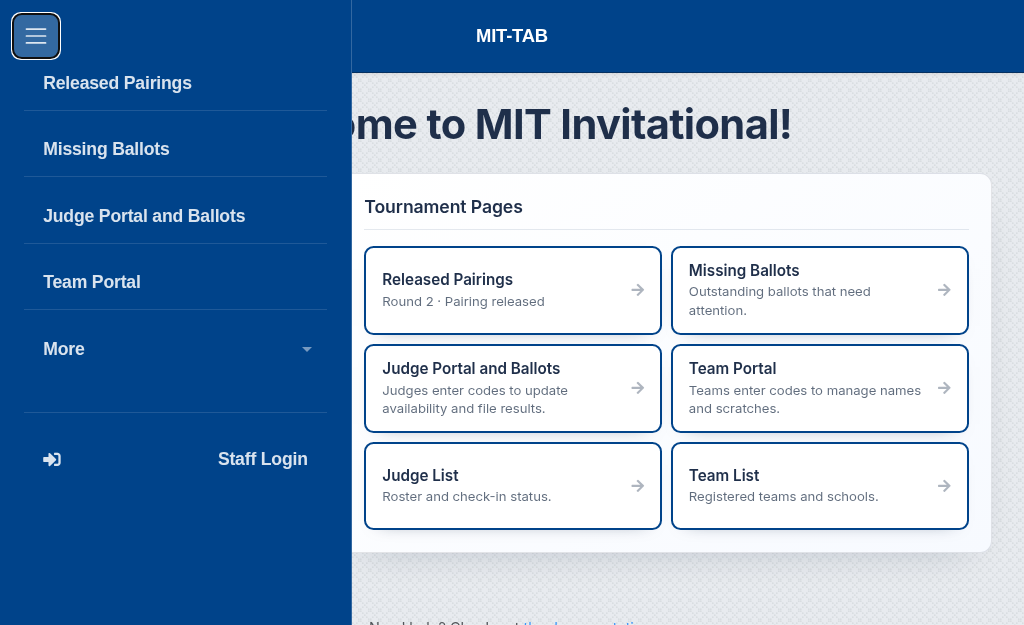
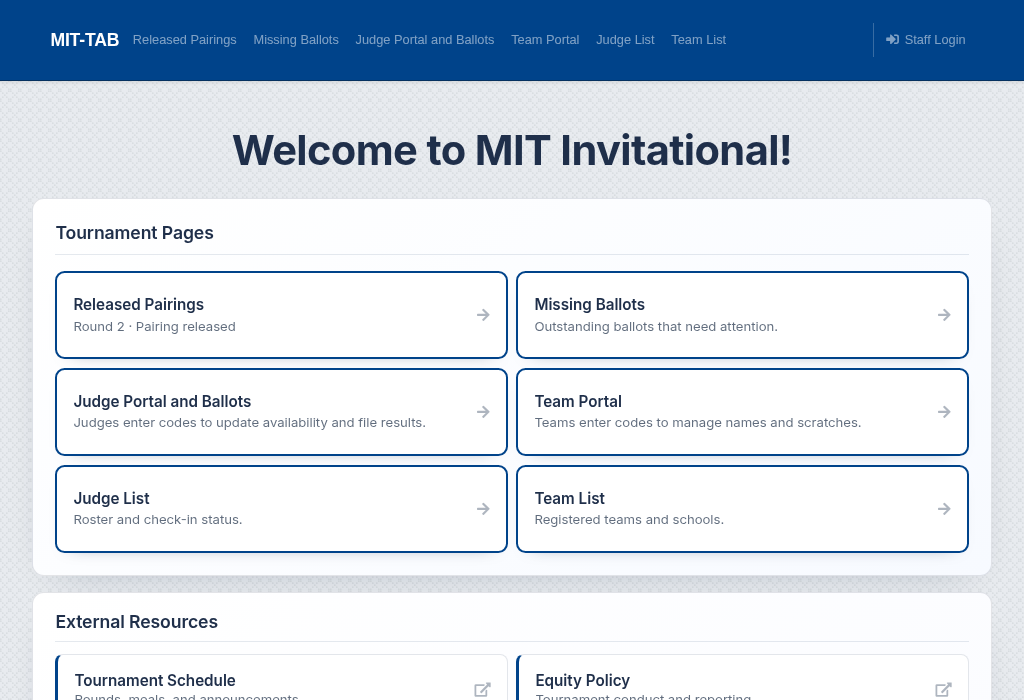
Refine responsive public navigation layout

diff --git a/mittab/templates/base/_navigation.html b/mittab/templates/base/_navigation.html
@@ -68,7 +68,7 @@
 {% staff_can user "checkins" as can_checkins %}
 {% staff_can user "data_entry" as can_data_entry %}
 
-<nav class="navbar navbar-expand-xl navbar-dark bg-dark shadow-sm mittab-nav">
+<nav class="navbar navbar-expand-lg navbar-dark bg-dark shadow-sm mittab-nav">
   <div class="container w-95">
     <a class="navbar-brand text-extra-bold{% if not user.is_authenticated %} no-nav{% endif %}" href="{% if user.is_authenticated %}{% if is_apda_board_user %}{{ apda_board_home|with_return_to }}{% else %}{{ home|with_return_to }}{% endif %}{% else %}{{ public_home|with_return_to }}{% endif %}">MIT-TAB</a>
 
@@ -270,16 +270,20 @@
           <a class="nav-link {% active request public_team_portal %}" href="{{ public_team_portal|with_return_to }}">Team Portal</a>
         </li>
         {% endif %}
-        {% if public_page_flags.judge_list or public_page_flags.team_list or public_page_flags.public_team_results or public_page_flags.public_speaker_results or public_page_flags.public_ballots or public_page_flags.public_motions or public_page_flags.varsity_outrounds or public_page_flags.novice_outrounds %}
+        {% if public_page_flags.judge_list %}
+        <li class="nav-item">
+          <a class="nav-link {% active request public_judges %}" href="{{ public_judges|with_return_to }}">Judge List</a>
+        </li>
+        {% endif %}
+        {% if public_page_flags.team_list %}
+        <li class="nav-item">
+          <a class="nav-link {% active request public_teams %}" href="{{ public_teams|with_return_to }}">Team List</a>
+        </li>
+        {% endif %}
+        {% if public_page_flags.public_team_results or public_page_flags.public_speaker_results or public_page_flags.public_ballots or public_page_flags.public_motions or public_page_flags.varsity_outrounds or public_page_flags.novice_outrounds %}
         <li class="nav-item dropdown">
           <a data-toggle="dropdown" class="nav-link dropdown-toggle">More</a>
           <div class="dropdown-menu">
-            {% if public_page_flags.judge_list %}
-            <a class="dropdown-item {% active request public_judges %}" href="{{ public_judges|with_return_to }}">Judge List</a>
-            {% endif %}
-            {% if public_page_flags.team_list %}
-            <a class="dropdown-item {% active request public_teams %}" href="{{ public_teams|with_return_to }}">Team List</a>
-            {% endif %}
             {% if public_page_flags.public_team_results %}
             <a class="dropdown-item {% active request public_team_rankings %}" href="{{ public_team_rankings|with_return_to }}">Public Team Results</a>
             {% endif %}

diff --git a/assets/css/navigation.scss b/assets/css/navigation.scss
@@ -19,7 +19,7 @@
 }
 
 // Desktop navigation
-@media (min-width: 1200px) {
+@media (min-width: 992px) {
   .mittab-nav {
     margin-bottom: 1.1rem;
     box-shadow: 0 4px 10px -8px rgba(12, 34, 68, 0.65);
@@ -44,10 +44,12 @@
       align-items: center;
       justify-content: space-between;
       gap: 1.2rem;
+      min-width: 0;
     }
 
     .navbar-nav {
       flex-direction: row;
+      flex-wrap: nowrap;
       align-items: center;
       gap: 0.5rem;
       padding: 0;
@@ -151,8 +153,41 @@
   }
 }
 
+// Keep the full desktop navigation at laptop widths without allowing labels
+// to wrap. Lower-priority result pages remain grouped under More.
+@media (min-width: 992px) and (max-width: 1199.98px) {
+  .mittab-nav {
+    .container {
+      gap: 0.35rem;
+      padding: 0 0.6rem;
+    }
+
+    .navbar-brand {
+      font-size: 1.1rem;
+    }
+
+    .navbar-collapse {
+      gap: 0.35rem;
+    }
+
+    .navbar-nav {
+      gap: 0.05rem;
+
+      + .navbar-nav {
+        margin-left: 0.35rem;
+        padding-left: 0.35rem;
+      }
+    }
+
+    .nav-link {
+      padding: 0.45rem 0.42rem;
+      font-size: 0.8rem;
+    }
+  }
+}
+
 // Mobile navigation
-@media (max-width: 1199.98px) {
+@media (max-width: 991.98px) {
   .mittab-nav {
     .container {
       display: flex;

diff --git a/assets/css/public-home.scss b/assets/css/public-home.scss
@@ -97,9 +97,8 @@ body {
     gap: 1.5rem;
 
     @media (min-width: 992px) {
-      grid-template-columns: minmax(260px, 0.72fr) minmax(0, 1.6fr);
+      grid-template-columns: minmax(0, 1fr);
       gap: 1rem;
-      align-items: stretch;
     }
   }
 
@@ -149,8 +148,18 @@ body {
     display: flex;
     flex-direction: column;
 
+    @media (min-width: 992px) {
+      order: 2;
+    }
+
     @media (max-width: 991.98px) {
       display: none;
+    }
+  }
+
+  .links {
+    @media (min-width: 992px) {
+      order: 1;
     }
   }
 
@@ -472,11 +481,21 @@ body {
 
 .public-sidebar-card {
   @include card-shell;
-  padding: 1.5rem 1.75rem;
-  height: 100%;
+  padding: 1.1rem 1.4rem 1.25rem;
   display: flex;
   flex-direction: column;
   background: linear-gradient(145deg, #ffffff 0%, #fbfcff 100%);
+
+  .public-card-header {
+    margin-bottom: 0.8rem;
+    padding-bottom: 0.55rem;
+  }
+
+  .info-links {
+    display: grid;
+    grid-template-columns: repeat(auto-fit, minmax(260px, 1fr));
+    gap: 0.55rem;
+  }
 }
 
 .status-block {
@@ -620,11 +639,7 @@ body {
     display: none;
   }
 
-  .public-links .tile:first-child {
-    grid-column: auto;
-  }
-
-  .public-links--odd > :first-child {
+  .public-links.public-links--odd > :first-child {
     grid-column: 1 / -1;
   }
 
